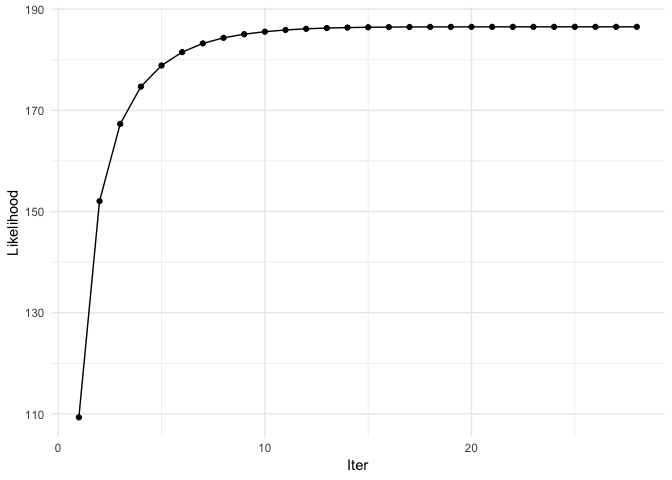
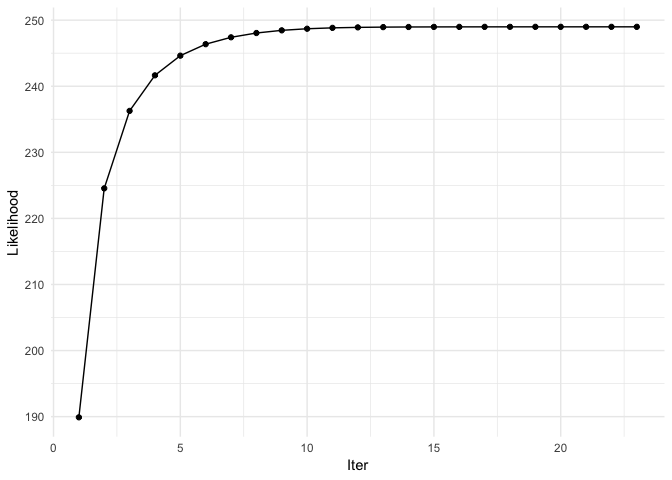
seeds in graphs

diff --git a/README.md b/README.md
@@ -81,10 +81,10 @@ library(EMtree)
 set.seed(3)
 output<-EMtree(model,  maxIter = 40, plot=TRUE)
 #> 
-#> Likelihoods: 109.3301 , 152.0645 , 167.3161 , 174.6878 , 178.8627 , 181.5125 , 183.2325 , 184.3332 , 185.0525 , 185.5438 , 185.8848 , 186.1163 , 186.2671 , 186.3619 , 186.42 , 186.4551 , 186.4761 , 186.4886 , 186.4961 , 186.5006 , 186.5034 , 186.505 , 186.506 , 186.5066 , 186.507 , 186.5073 , 186.5074 , 186.5075 , 
-#> Convergence took 1.22 secs  and  28  iterations.
-#> Likelihood difference = 9.499981e-05 
-#> Betas difference = 8.979049e-08
+#> Likelihoods: 189.8975 , 224.547 , 236.2677 , 241.6514 , 244.6262 , 246.3645 , 247.4053 , 248.054 , 248.4588 , 248.6996 , 248.8347 , 248.9077 , 248.9462 , 248.9665 , 248.9772 , 248.9828 , 248.9859 , 248.9876 , 248.9885 , 248.989 , 248.9893 , 248.9894 , 248.9895 , 
+#> Convergence took 1.12 secs  and  23  iterations.
+#> Likelihood difference = 9.35071e-05 
+#> Betas difference = 8.837998e-08
 ```
 
 <img src="man/figures/README-output-1.png" style="display: block; margin: auto;" />
@@ -92,11 +92,11 @@ output<-EMtree(model,  maxIter = 40, plot=TRUE)
 ``` r
 str(output)
 #> List of 5
-#>  $ beta     : num [1:33, 1:33] 0.00 6.84e-13 3.54e-13 1.01e-12 7.81e-13 ...
-#>  $ logpY    : num [1:28] 109 152 167 175 179 ...
+#>  $ beta     : num [1:33, 1:33] 0.00 6.65e-13 3.51e-13 1.01e-12 8.10e-13 ...
+#>  $ logpY    : num [1:23] 190 225 236 242 245 ...
 #>  $ ProbaCond: num [1:33, 1:33] 0e+00 1e-10 1e-10 1e-10 1e-10 ...
-#>  $ maxIter  : num 28
-#>  $ times    : 'difftime' num 1.22025990486145
+#>  $ maxIter  : num 23
+#>  $ times    : 'difftime' num 1.12359404563904
 #>   ..- attr(*, "units")= chr "secs"
 ```
 
@@ -174,7 +174,7 @@ library(ggraph)
 library(tidygraph)
 library(viridis)
 
-
+set.seed(200)
 x<- 1*(output$ProbaCond>2/p)
 draw_network(x,"Site", pal="dodgerblue3")
 ```
@@ -184,7 +184,6 @@ draw_network(x,"Site", pal="dodgerblue3")
 #### From `ResampleEMtree` output
 
 ``` r
-
 f<-0.8
 df<-freq_selec(resample_output$Pmat,p=p,f=f)
 draw_network(df,"Site")
@@ -195,7 +194,6 @@ draw_network(df,"Site")
 #### Facet for plotting several models in one shot
 
 ``` r
-
 compar_graphs(compare_output,alpha=TRUE)
 #> Using `nicely` as default layout
 ```
